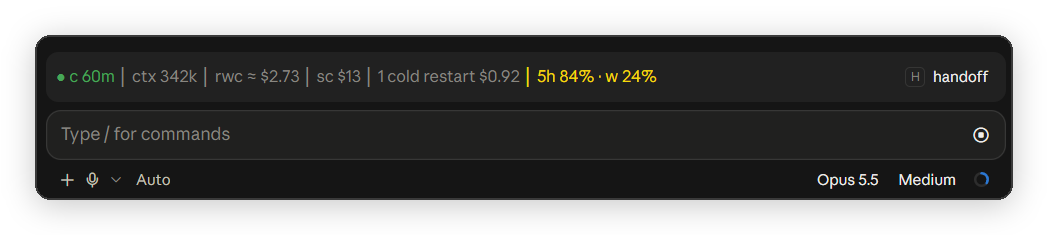
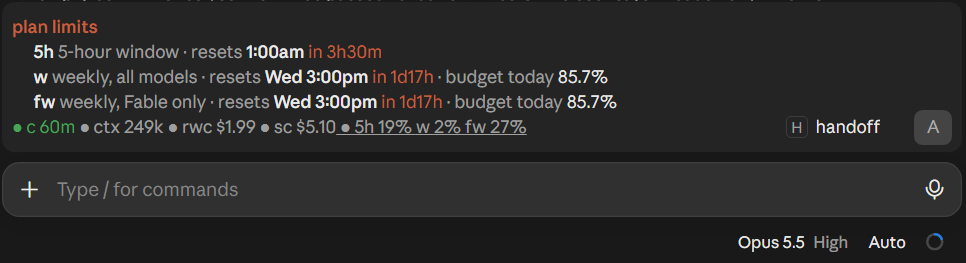
session-band: stacked hover help with bold keys and styled limit values

diff --git a/mods/session-band/tests/live.test.ts b/mods/session-band/tests/live.test.ts
@@ -1,5 +1,10 @@
 import { expect, mock, test } from 'claude-code/testing'
 
+const textOf = (n: any): string => (typeof n === 'string' ? n : (n?.children || []).map(textOf).join(''))
+// A hover help Box: the key row, then one row per line
+const linesOf = (box: any): string[] => (box?.children || []).map(textOf)
+const styleOf = (n: any) => n && { ...n, ...n.props }
+
 const BASE = 'D:/home/t/.claude/mods-data/session-band'
 const LIVE = `${BASE}/live/sess-1.json`
 const CMD = `${BASE}/commands/sess-1.json`
@@ -342,7 +347,19 @@ test('hovering the plan limits shows when each window resets', async ($, on) => 
     expect(drawn.find((n) => n.type === 'Text' && n.children.join('') === ' ● 5h 48%')?.hover?.scope).toBe('ck-limits')
     expect(drawn.find((n) => n.type === 'Text' && n.children.join('') === ' w 24%')?.hover?.scope).toBe('ck-limits')
     const help = drawn.find((n) => n.type === 'Box' && n.hover?.scope === 'ck-limits' && n.hover?.display === 'flex')
-    expect(all(help).find((n) => n.type === 'Text')?.children.join('')).toMatch(/^plan limits: 5h \(5-hour window\) resets \d{1,2}:\d\d[ap]m \(in 2h15m\) · w \(weekly, all models\) resets [A-Z][a-z]{2} \d{1,2}:\d\d[ap]m \(in 3d21h\), budget today 57\.1%$/)
+    const lines = linesOf(help)
+    expect(lines.length).toBe(3)
+    expect(lines[0]).toBe('plan limits')
+    expect(lines[1]).toMatch(/^5h 5-hour window · resets \d{1,2}:\d\d[ap]m in 2h15m$/)
+    expect(lines[2]).toMatch(/^w weekly, all models · resets [A-Z][a-z]{2} \d{1,2}:\d\d[ap]m in 3d21h · budget today 57\.1%$/)
+    expect(styleOf(help.children[0])).toMatchObject({ bold: true, color: 'claude' })
+    const row = all(help.children[1]).filter((n) => n.type === 'Text')
+    const part = (t: string | RegExp) => styleOf(row.find((n) => typeof t === 'string' ? n.children.join('') === t : t.test(n.children.join(''))))
+    expect(part('5h')).toMatchObject({ bold: true })
+    expect(part(' 5-hour window · resets ')).toMatchObject({ dimColor: true })
+    expect(part(/^\d{1,2}:\d\d[ap]m$/)).toMatchObject({ bold: true })
+    expect(part('in 2h15m')).toMatchObject({ color: 'claude' })
+    expect(all(help).some((n) => n.props?.italic)).toBe(false)
     await ui.unmount()
   }
 })
@@ -377,7 +394,9 @@ test('each plan limit gets its own colour, weekly ones by today\'s share of the 
   expect(style(' sw 30%')).toMatchObject({ dimColor: true })
   expect(text(' w 15%')?.hover?.scope).toBe('ck-limits')
   const help = drawn.find((n) => n.type === 'Box' && n.hover?.scope === 'ck-limits' && n.hover?.display === 'flex')
-  expect(all(help).find((n) => n.type === 'Text')?.children.join('')).toMatch(/ · w \(weekly, all models\) resets [A-Z][a-z]{2} \d{1,2}:\d\d[ap]m \(in 6d10h\), budget today 14\.3% · /)
+  expect(linesOf(help).some((l) => /^w weekly, all models · resets [A-Z][a-z]{2} \d{1,2}:\d\d[ap]m in 6d10h · budget today 14\.3%$/.test(l))).toBe(true)
+  // the budget figure takes the window's colour: 15 % used against 14.3 % allowed is red
+  expect(styleOf(all(help).find((n) => n.type === 'Text' && n.children.join('') === '14.3%'))).toMatchObject({ color: 'red' })
   await ui.unmount()
   // the footer lists the coloured windows
   const footer = await $.ui.mount({ plugin: 'session-band', surface: 'terminal', component: 'SessionMode', props: { modes: [] } as any })
@@ -419,7 +438,7 @@ test('per-model weekly windows (Fable) come from the usage endpoint into the ban
   const drawn = all(await ui.drawn())
   expect(drawn.some((n) => n.type === 'Text' && n.children.join('') === ' fw 33%')).toBe(true)
   const help = drawn.find((n) => n.type === 'Box' && n.hover?.scope === 'ck-limits' && n.hover?.display === 'flex')
-  expect(all(help).find((n) => n.type === 'Text')?.children.join('')).toMatch(/ · fw \(weekly, Fable only\) resets [A-Z][a-z]{2} \d{1,2}:\d\d[ap]m \(in 2d5h\), budget today 71\.4%$/)
+  expect(linesOf(help).at(-1)).toMatch(/^fw weekly, Fable only · resets [A-Z][a-z]{2} \d{1,2}:\d\d[ap]m in 2d5h · budget today 71\.4%$/)
   await ui.unmount()
   // within five minutes the endpoint is not asked again
   await $.turn.start({ turnId: 't1' } as any)
@@ -442,7 +461,7 @@ test('the band keeps cooling and cold restarts short and puts the full text in h
   await step.result
   await clock.advance(57 * 60000)
   const all = (n: any): any[] => (n && typeof n === 'object' ? [n, ...(n.children || []).flatMap(all)] : [])
-  const helpText = (drawn: any[], scope: string) => all(drawn.find((n) => n.type === 'Box' && n.hover?.scope === scope && n.hover?.display === 'flex')).find((n) => n.type === 'Text')?.children.join('')
+  const helpText = (drawn: any[], scope: string) => linesOf(drawn.find((n) => n.type === 'Box' && n.hover?.scope === scope && n.hover?.display === 'flex')).join('\n')
   for (const surface of ['terminal', 'desktop'] as const) {
     const ui = await $.ui.mount({ plugin: 'session-band', surface, component: 'AbovePrompt', props: {} as any })
     const drawn = all(await ui.drawn())
@@ -450,10 +469,10 @@ test('the band keeps cooling and cold restarts short and puts the full text in h
     expect(texts).toContain('◐ c 3m')
     const band = texts.filter((t) => /^([◐●○◆]| ●)/.test(t))
     expect(band.some((t) => /cools in|cold restart/.test(t))).toBe(false)
-    expect(helpText(drawn, 'ck-c')).toMatch(/^c = prompt cache: cooling, expires in 3m \(60m TTL\);/)
+    expect(helpText(drawn, 'ck-c')).toMatch(/^c = prompt cache\ncooling, expires in 3m \(60m TTL\)\nonce cold, /)
     const cr = drawn.find((n) => n.type === 'Text' && /^ ● cr 1 \$\d+\.\d\d$/.test(String(n.children.join(''))))
     expect(cr?.hover?.scope).toBe('ck-cr')
-    expect(helpText(drawn, 'ck-cr')).toMatch(/^cr = cold restarts: 1 send rewrote the expired cache this session, \$\d+\.\d\d in total$/)
+    expect(helpText(drawn, 'ck-cr')).toMatch(/^cr = cold restarts\n1 send rewrote the expired cache this session, \$\d+\.\d\d in total$/)
     await ui.unmount()
   }
 })
@@ -467,22 +486,22 @@ test('kept warm, rewrite cost and plan limits stay short, and band segments wrap
   }, { 'D:/home/t/.claude/projects/d--VSC-demo/sess-1.jsonl': transcript })
   await $.command.run({ command: 'session-band', args: 'keepwarm 2' } as any)
   const all = (n: any): any[] => (n && typeof n === 'object' ? [n, ...(n.children || []).flatMap(all)] : [])
-  const helpText = (drawn: any[], scope: string) => all(drawn.find((n) => n.type === 'Box' && n.hover?.scope === scope && n.hover?.display === 'flex')).find((n) => n.type === 'Text')?.children.join('')
+  const helpText = (drawn: any[], scope: string) => linesOf(drawn.find((n) => n.type === 'Box' && n.hover?.scope === scope && n.hover?.display === 'flex')).join('\n')
   for (const surface of ['terminal', 'desktop'] as const) {
     const ui = await $.ui.mount({ plugin: 'session-band', surface, component: 'AbovePrompt', props: {} as any })
     const drawn = all(await ui.drawn())
     const texts = drawn.filter((n) => n.type === 'Text')
     const kept = texts.find((n) => /^◆ c kept \d{1,2}:\d\d[ap]m$/.test(n.children.join('')))
     expect(kept?.hover?.scope).toBe('ck-c')
-    expect(helpText(drawn, 'ck-c')).toMatch(/^c = prompt cache: kept warm until \d{1,2}:\d\d[ap]m, 0 pings so far \(\$0\)/)
+    expect(helpText(drawn, 'ck-c')).toMatch(/^c = prompt cache\nkept warm until \d{1,2}:\d\d[ap]m, 0 pings so far \(\$0\)/)
     expect(texts.some((n) => /^ ● rwc \$\d+\.\d\d$/.test(n.children.join('')))).toBe(true)
     expect(texts.some((n) => n.children.join('') === ' ● 5h 9%')).toBe(true)
     expect(texts.some((n) => n.children.join('') === ' w 10%')).toBe(true)
     expect(texts.find((n) => n.children.join('') === ' ● ctx 90.0k')?.hover?.scope).toBe('ck-ctx')
-    expect(helpText(drawn, 'ck-ctx')).toBe("ctx = context: 90.0k tokens in this session's context window of 200k")
-    expect(helpText(drawn, 'ck-rewrite')).toMatch(/^rwc = rewrite cost: /)
-    expect(helpText(drawn, 'ck-sc')).toMatch(/^sc = session cost: /)
-    expect(helpText(drawn, 'ck-limits')).toBe('plan limits: 5h (5-hour window) · w (weekly, all models)')
+    expect(helpText(drawn, 'ck-ctx')).toBe("ctx = context\n90.0k tokens in this session's context window of 200k")
+    expect(helpText(drawn, 'ck-rewrite')).toMatch(/^rwc = rewrite cost\nestimated cost to write 90.0k of context /)
+    expect(helpText(drawn, 'ck-sc')).toMatch(/^sc = session cost\nwhat this session has cost so far/)
+    expect(helpText(drawn, 'ck-limits')).toBe('plan limits\n5h 5-hour window\nw weekly, all models')
     expect(drawn.find((n) => n.type === 'Box' && n.children?.some((c: any) => c === kept))?.props?.flexWrap).toBe('wrap')
     await ui.unmount()
   }
@@ -826,7 +845,7 @@ test('the A button is highlighted while on and explains itself on hover', async 
     const button = drawn.find((n) => n.type === 'Button' && n.props.key === 'auto')
     const help = drawn.find((n) => n.type === 'Box' && n.hover?.scope === 'ck-auto' && n.hover?.display === 'flex')
     await ui.unmount()
-    return { button, keys: drawn.filter((n) => n.type === 'Button').map((n) => n.props.key), help: all(help).find((n) => n.type === 'Text')?.children.join('') }
+    return { button, keys: drawn.filter((n) => n.type === 'Button').map((n) => n.props.key), help: linesOf(help).join('\n') }
   }
   for (const surface of ['terminal', 'desktop'] as const) {
     const off = await look(surface)
@@ -837,7 +856,7 @@ test('the A button is highlighted while on and explains itself on hover', async 
     expect(off.button.props.plain).toBeUndefined()
     expect(off.button.props.variant).toBe('secondary')
     expect(off.button.props.dimColor).toBe(true)
-    expect(off.help).toMatch(/^A = autonomous mode: off\./)
+    expect(off.help).toMatch(/^A = autonomous mode\noff\n/)
   }
   await toggle()
   expect(toasts.some((t) => /^Autonomous mode on/.test(t))).toBe(true)
@@ -845,6 +864,6 @@ test('the A button is highlighted while on and explains itself on hover', async 
     const lit = await look(surface)
     expect(lit.button.props.variant).toBe('primary')
     expect(lit.button.props.dimColor).toBe(false)
-    expect(lit.help).toMatch(/^A = autonomous mode: on\./)
+    expect(lit.help).toMatch(/^A = autonomous mode\non\n/)
   }
 })

diff --git a/mods/session-band/README.md b/mods/session-band/README.md
@@ -4,7 +4,7 @@ A compact prompt-cache status band for Claude Code, with a cold-send guard, keep
 
 This is a fork of **Cache Keeper** by Nate Herk ([nateherkai/claude-code-mods](https://github.com/nateherkai/claude-code-mods)), MIT licensed. The cache logic, board, guard and handoff flow are his work. See [Changes from Cache Keeper](#changes-from-cache-keeper) for what this fork adds.
 
-<img src="screenshots/band.png" alt="session-band above the prompt" width="686">
+<img src="screenshots/band.png" alt="session-band above the prompt, plan limits hover help open" width="686">
 
 *The band above the prompt: cache warm for 60 minutes, 342k tokens in context, a cold rewrite would cost about $2.73, the session cost $13 so far, and the 5-hour and weekly plan limits.*
 
@@ -41,7 +41,7 @@ Start a new session afterwards.
 | `cr` | Cold restarts: how many sends rewrote an expired cache this session, and what they cost. Shown only after the first one. |
 | `5h`, `w`, `fw` | 5-hour, weekly and per-model weekly (`fw` for Fable, the model's initial) plan limits used, each in its own colour. `5h`: yellow at 80 %, red at 95 %. Weekly windows follow a daily budget: day n of 7 (counted from the reset) allows n/7 of the week, so day 1 allows 14.3 %. Red once today's budget is used, yellow at 80 % of it. The per-model windows come from the plan usage endpoint (`/api/oauth/usage`, asked at most every 5 minutes), because the mod API does not pass them. |
 
-Hover `c`, `ctx`, `rwc`, `sc` or `cr` for a one-line explanation above the band. Each starts with what the label stands for (`rwc = rewrite cost: ...`), and `c` names the state in full (kept, warm, cooling, cold). Hover the plan limits for what each window is and when it resets: `5h (5-hour window) resets 1:50pm (in 2h15m) · w (weekly, all models) resets Fri 9:00am (in 3d21h), budget today 57.1%`. On a subscription the prices show up as usage against your limits, not as a bill.
+Hover `c`, `ctx`, `rwc`, `sc` or `cr` for an explanation above the band: what the label stands for in bold (`rwc = rewrite cost`), then the details on the lines below it, and `c` names the state in full (kept, warm, cooling, cold). Hover the plan limits for one line per window with what it is and when it resets: `5h 5-hour window · resets 1:50pm in 2h15m`, weekly ones ending `· budget today 57.1%` in the window's colour. On a subscription the prices show up as usage against your limits, not as a bill.
 
 ## Commands
 
@@ -103,7 +103,7 @@ Background work keeps A on when a turn ends without a handoff: a running subagen
 ## Changes from Cache Keeper
 
 - Short band labels (`c`, `rwc`, `sc`, `w`) so the band fits next to the prompt, session cost before the plan limits.
-- Hover help for the short labels. The help row opens above the band, so the hovered text does not move.
+- Hover help for the short labels: the key in bold, the details on their own lines. The help opens above the band, so the hovered text does not move.
 - Handoff files: when Claude writes a `session-handoff.md`, a `restart-packet.md` (also with a suffix, like `session-handoff-pve.md`) or a file under `handoffs/`, the band shows `handoff running` while Claude still works, and offers to clear and continue from that file once the turn ends. A message you send mid-turn does not drop it. Any header format works; only a header marked `status: consumed` (or another non-active status) is skipped. If a handoff turn ends on a short answer (a Stop hook added a tail), the last handoff file written in the session is used instead. The fresh chat gets a short "read this file" prompt instead of the whole text.
 - Renamed to `session-band`. Data lives in `~/.claude/mods-data/session-band/`.
 - Earlier versions of this fork were called `cache-status`. To switch, run `/plugin uninstall cache-status@claude-forge`, then install `session-band@claude-forge` and restart each chat. Nothing reads `~/.claude/mods-data/cache-status/` any more, so you can delete that folder once no chat runs the old mod.
